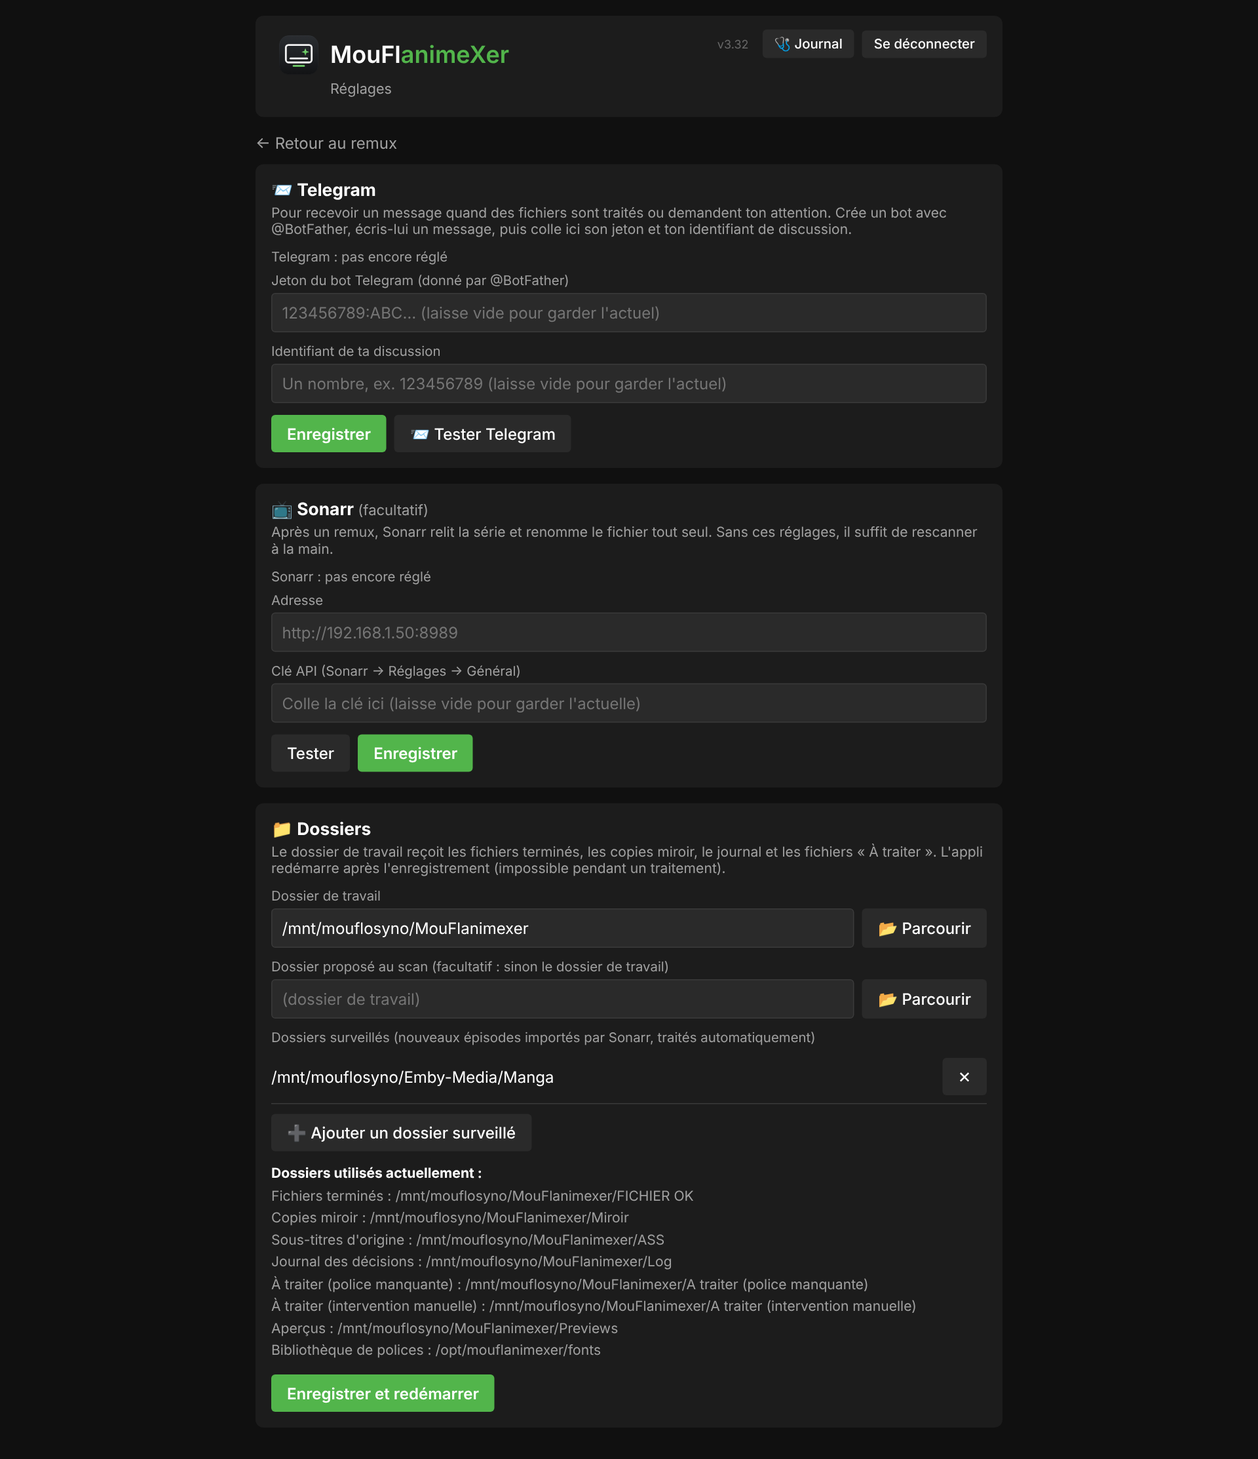
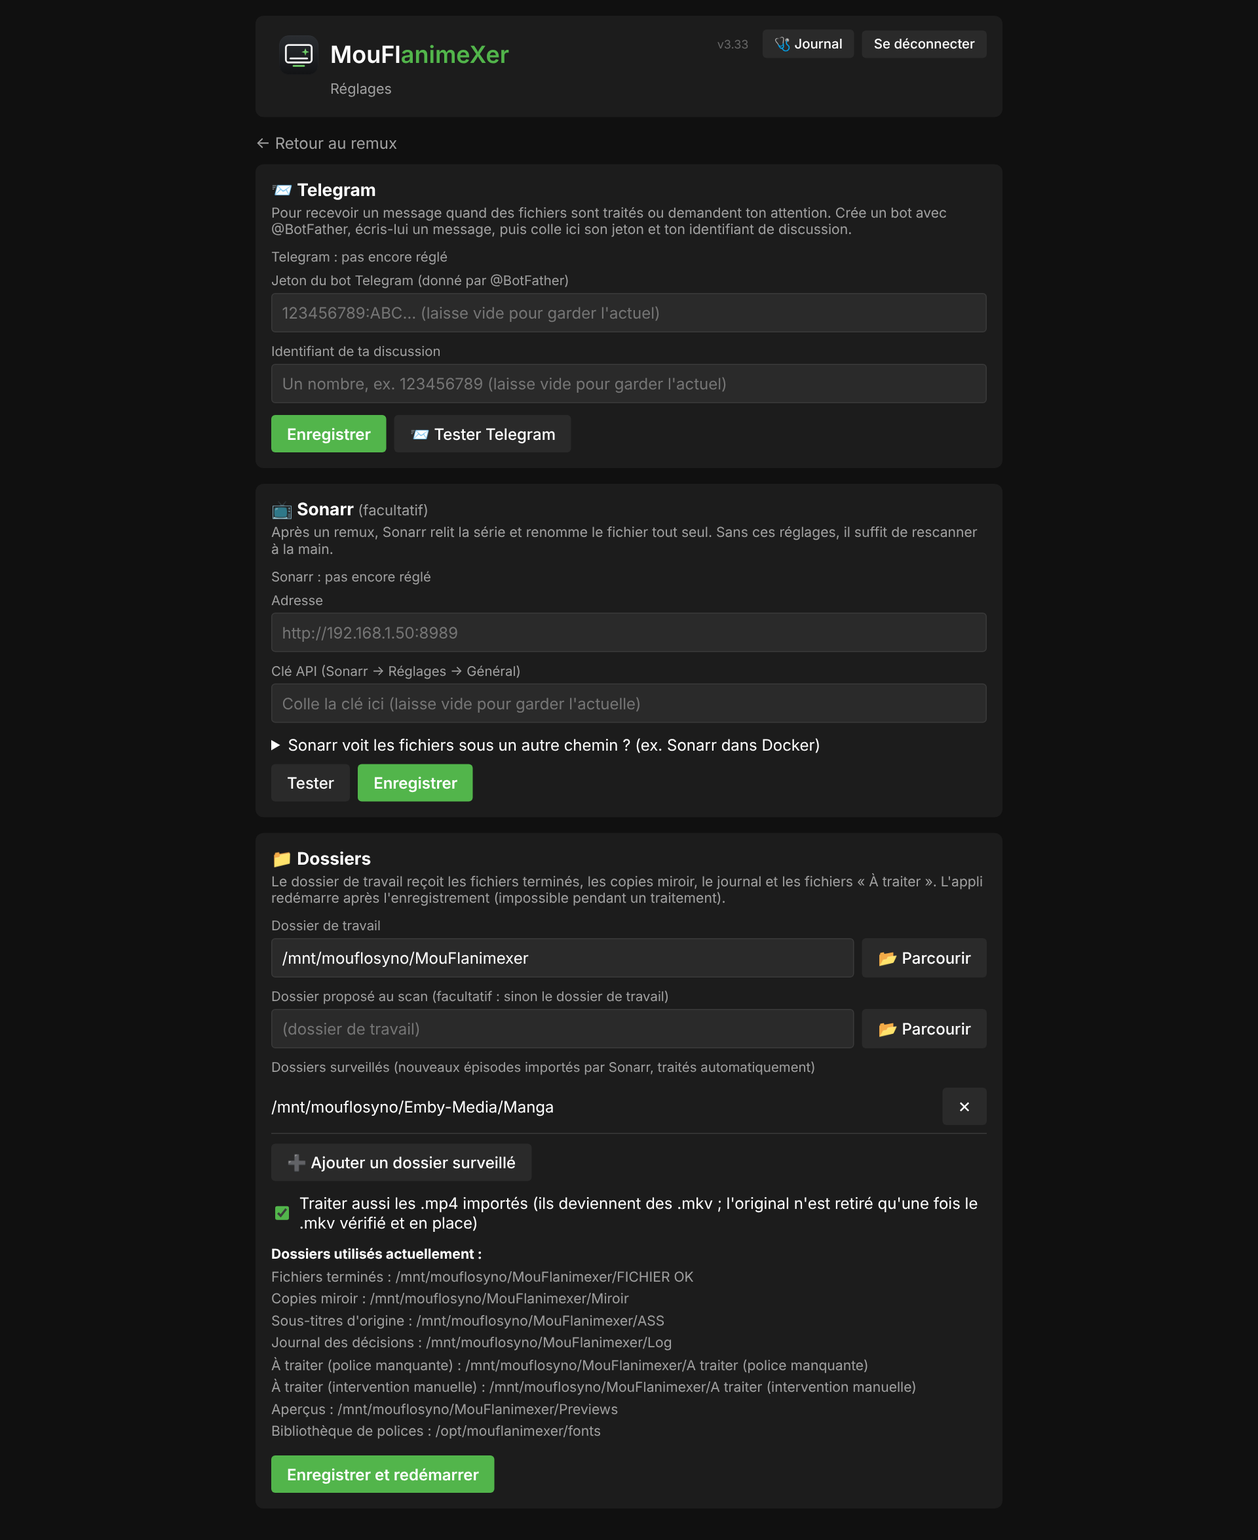
Surveillant Sonarr : MP4, correspondance de chemins, alerte NAS ; FICHIER OK rangé par série (3.33)
- les .mp4 importés par Sonarr sont traités aussi : le .mkv produit est posé à côté, l'original n'est retiré qu'une fois le .mkv en place (réglable dans Réglages → Dossiers)
- Réglages → Sonarr : correspondance de chemins quand Sonarr voit les fichiers autrement (ex. Docker)
- partage réseau non monté : le surveillant attend et envoie au plus une alerte Telegram par heure ; « Lancer » refuse avec un message clair
- FICHIER OK/<série>/<saison> : plus d'écrasement entre séries ; l'ancien rangement à plat reste reconnu
- README et capture de la page Réglages mis à jour

Claude-Session: https://claude.ai/code/session_01P3JwC3gaAT2fx5yrpG9jJV

diff --git a/templates/reglages.html b/templates/reglages.html
@@ -32,6 +32,11 @@
         <div class="state" id="snState"></div>
         <div class="field"><label for="snUrl">Adresse</label><input type="text" id="snUrl" placeholder="http://192.168.1.50:8989" autocapitalize="off" spellcheck="false"></div>
         <div class="field"><label for="snKey">Clé API (Sonarr → Réglages → Général)</label><input type="password" id="snKey" autocomplete="off" autocapitalize="off" spellcheck="false" placeholder="Colle la clé ici (laisse vide pour garder l'actuelle)"></div>
+        <details style="margin-bottom:10px"><summary style="cursor:pointer">Sonarr voit les fichiers sous un autre chemin ? (ex. Sonarr dans Docker)</summary>
+            <div class="sub" style="margin-top:8px">Indique le chemin tel que Sonarr le voit et le même dossier sur ce serveur. Exemple : <b>/tv</b> ↔ <b>/mnt/mouflosyno/Emby-Media/Manga</b>. Laisse vide si les chemins sont identiques.</div>
+            <div id="snMap"></div>
+            <div class="row" style="margin-top:6px"><button class="btn ghost" id="snMapAdd">➕ Ajouter une correspondance</button></div>
+        </details>
         <div class="row"><button class="btn ghost" id="snTest">Tester</button><button class="btn" id="snSave">Enregistrer</button></div>
         <div id="snMsg"></div>
     </div>
@@ -46,6 +51,7 @@
         <div class="field"><label>Dossiers surveillés (nouveaux épisodes importés par Sonarr, traités automatiquement)</label>
             <div id="pWatch"></div>
             <div class="row" style="margin-top:6px"><button class="btn ghost" id="pWatchAdd">➕ Ajouter un dossier surveillé</button></div></div>
+        <label class="check"><input type="checkbox" id="pMp4"> Traiter aussi les .mp4 importés (ils deviennent des .mkv ; l'original n'est retiré qu'une fois le .mkv vérifié et en place)</label>
         <div class="tabsinfo" id="folderInfo"></div>
         <div class="row" style="margin-top:12px"><button class="btn" id="pSave">Enregistrer et redémarrer</button></div>
         <div id="pMsg"></div>
@@ -53,7 +59,18 @@
 </div>
 <script>
 async function loadTg() { const s = await api('/api/settings/telegram'); $('tgState').textContent = s.configured ? `Telegram : réglé (discussion ${s.chat_hint})` : 'Telegram : pas encore réglé'; }
-async function loadSn() { const s = await api('/api/settings/sonarr'); $('snUrl').value = s.base_url || ''; $('snState').textContent = s.configured ? `Sonarr : réglé (clé ${s.hint})` : 'Sonarr : pas encore réglé'; }
+let snMap = [];
+function renderSnMap() {
+    $('snMap').innerHTML = snMap.map((m, i) => `<div class="row nowrap" style="margin-top:6px"><input type="text" data-k="sonarr" data-i="${i}" value="${esc(m.sonarr)}" placeholder="/tv (Sonarr)" autocapitalize="off" spellcheck="false"><input type="text" data-k="local" data-i="${i}" value="${esc(m.local)}" placeholder="/mnt/… (ce serveur)" autocapitalize="off" spellcheck="false"><button class="btn ghost" data-delm="${i}" title="Retirer">✕</button></div>`).join('');
+}
+$('snMap').addEventListener('input', e => { const i = e.target.dataset.i; if (i !== undefined) snMap[i][e.target.dataset.k] = e.target.value; });
+$('snMap').addEventListener('click', e => { const d = e.target.dataset.delm; if (d !== undefined) { snMap.splice(Number(d), 1); renderSnMap(); } });
+$('snMapAdd').addEventListener('click', () => { snMap.push({sonarr: '', local: ''}); renderSnMap(); });
+async function loadSn() {
+    const s = await api('/api/settings/sonarr'); $('snUrl').value = s.base_url || '';
+    $('snState').textContent = s.configured ? `Sonarr : réglé (clé ${s.hint})` : 'Sonarr : pas encore réglé';
+    snMap = (s.path_map || []).map(m => ({sonarr: m.sonarr, local: m.local})); renderSnMap();
+}
 $('tgSave').addEventListener('click', async () => {
     if (!$('tgToken').value.trim() && !$('tgChat').value.trim()) return say('tgMsg', 'Renseigne le jeton et l\'identifiant (ou utilise « Tester » pour essayer les réglages actuels).', 'warn');
     say('tgMsg', 'Vérification de Telegram…', true);
@@ -63,7 +80,7 @@ $('tgSave').addEventListener('click', async () => {
 $('tgTest').addEventListener('click', async () => { say('tgMsg', 'Envoi…', true); const r = await post('/api/settings/telegram', {}); say('tgMsg', r.message || r.error, r.ok); });
 $('snTest').addEventListener('click', async () => { say('snMsg', 'Test…', true); const r = await post('/api/settings/sonarr', {base_url: $('snUrl').value, api_key: $('snKey').value, test: true}); say('snMsg', r.message || r.error, r.ok); });
 $('snSave').addEventListener('click', async () => {
-    say('snMsg', 'Vérification…', true); const r = await post('/api/settings/sonarr', {base_url: $('snUrl').value, api_key: $('snKey').value});
+    say('snMsg', 'Vérification…', true); const r = await post('/api/settings/sonarr', {base_url: $('snUrl').value, api_key: $('snKey').value, path_map: snMap});
     say('snMsg', r.message || r.error, r.ok); if (r.ok) { $('snKey').value = ''; loadSn(); }
 });
 let watch = [];
@@ -74,13 +91,13 @@ $('pWatch').addEventListener('click', e => { const d = e.target.dataset.delw; if
 $('pWatchAdd').addEventListener('click', () => browseFolder(watch[0] || '/mnt', path => { if (!watch.includes(path)) watch.push(path); renderWatch(); }));
 async function loadPaths() {
     const p = await api('/api/settings/paths');
-    $('pWork').value = p.work_root || ''; $('pScan').value = p.scan_default || ''; watch = p.watch_dirs || []; renderWatch();
+    $('pWork').value = p.work_root || ''; $('pScan').value = p.scan_default || ''; watch = p.watch_dirs || []; renderWatch(); $('pMp4').checked = p.watch_mp4 !== false;
     const f = await api('/api/settings/folders');
     $('folderInfo').innerHTML = '<b>Dossiers utilisés actuellement :</b><br>' + f.folders.map(x => `${esc(x.label)} : ${esc(x.path)}${x.ok ? '' : ' <span style="color:var(--muted)">(créé au premier usage)</span>'}`).join('<br>');
 }
 $('pSave').addEventListener('click', async () => {
     if (!confirm('Enregistrer ces dossiers ? L\'appli va redémarrer (quelques secondes).')) return;
-    const r = await post('/api/settings/paths', {work_root: $('pWork').value, scan_default: $('pScan').value, watch_dirs: watch});
+    const r = await post('/api/settings/paths', {work_root: $('pWork').value, scan_default: $('pScan').value, watch_dirs: watch, watch_mp4: $('pMp4').checked});
     if (!r.ok) return say('pMsg', r.error, false);
     say('pMsg', r.message, 'warn');
     for (let i = 0; i < 40; i++) { await new Promise(res => setTimeout(res, 2000)); try { const x = await fetch('/api/settings/paths'); if (x.ok) { await loadPaths(); return say('pMsg', 'Dossiers relus.', true); } } catch (e) {} }

diff --git a/mouflanimexer.py b/mouflanimexer.py
@@ -659,6 +659,7 @@ PENDING_REVIEW_DIR = WORK_ROOT / "A traiter (police manquante)"
 # de deviner, avec notification Telegram.
 SONARR_WATCH_DIRS = [Path(p) for p in (_PATHS["sonarr_watch_dirs"] if "sonarr_watch_dirs" in _PATHS else DEFAULT_WATCH_DIRS)]   # liste vide = surveillance désactivée
 SONARR_REVIEW_DIR = WORK_ROOT / "A traiter (intervention manuelle)"
+WATCH_MP4 = bool(_PATHS.get("watch_mp4", True))      # v3.33 : le surveillant traite aussi les .mp4 (devenus .mkv)
 SONARR_STATE_PATH = Path("/opt/mouflanimexer/sonarr_watch_state.json")
 # Un fichier doit être stable (non modifié) depuis au moins ce délai avant
 # d'être traité, pour ne jamais toucher un import Sonarr encore en cours.
@@ -705,6 +706,26 @@ def load_sonarr_api_config():
     except Exception:
         pass
     return None, None
+
+
+def load_sonarr_path_map():
+    """v3.33 : correspondances de chemins quand Sonarr voit les fichiers autrement (ex. Docker : « /tv » ici
+    « /mnt/mouflosyno/Emby-Media/Manga »). -> [(chemin Sonarr, chemin local)], les plus longs d'abord."""
+    try:
+        data = json.loads(SONARR_API_CONFIG_PATH.read_text(encoding="utf-8"))
+        pairs = [(str(m.get("sonarr", "")).rstrip("/"), str(m.get("local", "")).rstrip("/")) for m in data.get("path_map") or []]
+        return sorted([p for p in pairs if p[0] and p[1]], key=lambda p: -len(p[0]))
+    except Exception:
+        return []
+
+
+def sonarr_to_local(path_str):
+    """Chemin donné par Sonarr -> chemin sur ce serveur (inchangé sans correspondance)."""
+    p = str(path_str or "")
+    for son, loc in load_sonarr_path_map():
+        if p == son or p.startswith(son + "/"):
+            return loc + p[len(son):]
+    return p
 
 
 def _sonarr_api_call(method, path, api_key, base_url, payload=None, timeout=20, _redirects_left=3):
@@ -762,7 +783,7 @@ def _sonarr_find_series_id(file_path: Path, base_url, api_key):
     best_match = None
     best_len = -1
     for series in series_list:
-        series_path = series.get("path")
+        series_path = sonarr_to_local(series.get("path"))
         if not series_path:
             continue
         # Le fichier doit être DANS ce dossier série (avec séparateur, pour
@@ -800,7 +821,7 @@ def _sonarr_find_episode_file_id(series_id, file_path: Path, base_url, api_key):
         return None
     target = os.path.normpath(str(file_path))
     for item in files:
-        item_path = item.get("path")
+        item_path = sonarr_to_local(item.get("path"))
         if item_path and os.path.normpath(item_path) == target:
             return item.get("id")
     return None
@@ -812,7 +833,7 @@ def _sonarr_get_episode_file_path(episode_file_id, base_url, api_key):
     None si introuvable/erreur."""
     try:
         item = _sonarr_api_call("GET", f"/api/v3/episodefile/{episode_file_id}", api_key, base_url)
-        p = item.get("path") if item else None
+        p = sonarr_to_local(item.get("path")) if item else None
         return Path(p) if p else None
     except Exception:
         return None
@@ -1191,6 +1212,12 @@ def extract_series_name(path: Path) -> str:
     if subdir:
         return f"{series_name} / {subdir.upper()}"
     return series_name
+
+
+def ok_dir_for(anime_name):
+    """v3.33 : dossier « FICHIER OK/<série>[/<saison>] », noms nettoyés pour le partage réseau (SMB)."""
+    clean = re.sub(r'[:*?"<>|]+', "-", anime_name or "").replace("::", "-")
+    return series_path(OK_DIR, clean)
 
 
 def series_path(base: Path, anime_name: str) -> Path:
@@ -2786,17 +2813,33 @@ def auto_process_file(path: Path, tmpdir: Path, watch_root):
             produced = AUTO_OUT_DIR / (path.stem + ".mkv")
             if not produced.exists():
                 return "error", "Fichier traité introuvable après remux (chemin inattendu).", None
+            # v3.33 : un .mp4 devient un .mkv à côté ; l'original n'est retiré qu'une fois le .mkv en place
+            target = path.with_suffix(".mkv")
+            if target != path and target.exists():
+                try:
+                    produced.unlink()
+                except OSError:
+                    pass
+                return "error", f"Un fichier « {target.name} » existe déjà à côté : rien n'a été remplacé.", None
             try:
-                os.replace(str(produced), str(path))
+                os.replace(str(produced), str(target))
             except Exception as e:
                 return "error", f"Échec du remplacement en place du fichier original : {e}", None
+            if target != path:
+                try:
+                    if target.stat().st_size > 0:
+                        path.unlink()
+                except OSError as e:
+                    notes.append(f"l'ancien {path.name} n'a pas pu être retiré ({e})")
+            converted = target != path
+            path = target
             # v3.15 : le nom de fichier imposé par Sonarr peut contenir l'ordre
             # des langues audio (ex: [FR+JA]) — désormais périmé après le
             # remux. On demande à Sonarr de rescanner puis renommer lui-même
             # (best-effort, ne fait jamais échouer le "done" ci-dessous).
             # v3.17 : on récupère le chemin final réel pour que l'état du
             # watcher ne pointe jamais vers un chemin qui n'existe plus.
-            final_path = trigger_sonarr_rescan_and_rename(path)
+            final_path = trigger_sonarr_rescan_and_rename(path) or (path if converted else None)
             return "done", "; ".join(notes) if notes else "traité sans intervention", final_path
         # "info" / "warn" : déjà journalisés par log_decision côté pipeline
         # standard, ignorés ici puisqu'il n'y a pas d'interface à mettre à jour.
@@ -2813,9 +2856,10 @@ def _iter_mkv_files(root):
     → crash complet du process watcher, plus aucune notification Telegram
     envoyée, jusqu'au prochain déclenchement cron). os.walk(onerror=...)
     avale l'erreur et continue avec les dossiers suivants."""
+    exts = (".mkv", ".mp4") if WATCH_MP4 else (".mkv",)      # v3.33 : les .mp4 importés par Sonarr aussi (réglable)
     for dirpath, dirnames, filenames in os.walk(root, onerror=lambda e: None):
         for name in filenames:
-            if name.lower().endswith(".mkv"):
+            if name.lower().endswith(exts):
                 yield Path(dirpath) / name
 
 
@@ -2990,9 +3034,27 @@ def run_sonarr_watch_once():
         return          # le passage précédent travaille encore : on le laisse finir
     except OSError:
         lock_file = None
+    if not SONARR_WATCH_DIRS:
+        return          # surveillance désactivée dans les Réglages
     missing = [d for d in SONARR_WATCH_DIRS if not d.exists()]
-    if not SONARR_WATCH_DIRS or len(missing) == len(SONARR_WATCH_DIRS):
-        return          # partage réseau non monté : rien à faire (et surtout rien à créer en local)
+    problem = None
+    if len(missing) == len(SONARR_WATCH_DIRS):
+        problem = "dossier surveillé introuvable : " + ", ".join(str(d) for d in missing)
+    elif not (WORK_ROOT.is_dir() and os.access(WORK_ROOT, os.W_OK)):
+        problem = f"dossier de travail inaccessible : {WORK_ROOT}"
+    if problem:         # v3.33 : partage réseau non monté → rien à faire, une alerte Telegram par heure au plus
+        alert_file = SONARR_STATE_PATH.with_name("sonarr_watch_nas_alert")
+        try:
+            last = alert_file.stat().st_mtime
+        except OSError:
+            last = 0
+        if time.time() - last > 3600:
+            send_telegram_notification(f"⚠ MouFlanimeXer : partage réseau inaccessible ({problem}). Le traitement automatique attend son retour.")
+            try:
+                alert_file.write_text(problem, encoding="utf-8")
+            except OSError:
+                pass
+        return
     state = _load_sonarr_state()
     failures = _load_failures()
     now = time.time()
@@ -3171,7 +3233,7 @@ def _process_file_gen(path: Path, tmpdir: Path, mirror_root=None, scan_root=None
         # dupliquée (ex: .../Boruto/S1/Boruto/S1/...)
         output_dir = mirror_root / rel.parent
     elif output_dir is None:
-        output_dir = OK_DIR
+        output_dir = ok_dir_for(anime_name)        # v3.33 : un sous-dossier par série (plus d'écrasement entre séries)
     output_dir = Path(output_dir)
     output_dir.mkdir(parents=True, exist_ok=True)
     out_file = output_dir / (path.stem + ".mkv")
@@ -3935,7 +3997,8 @@ def _already_handled(f: Path, anime_name=None, mirror_root=None, scan_root=None)
         except ValueError:
             rel = Path(f.name)
         return (mirror_root / rel.parent / (f.stem + ".mkv")).exists()
-    return (OK_DIR / (f.stem + ".mkv")).exists()
+    name = f.stem + ".mkv"
+    return (ok_dir_for(anime_name or extract_series_name(f)) / name).exists() or (OK_DIR / name).exists()   # ancien rangement (à plat) reconnu aussi
 
 @app.route("/", methods=["GET"])
 @requires_auth
@@ -4344,6 +4407,9 @@ def start():
     save_extra_sub_lang(extra_sub_lang)
 
     STATE["queue"] = [f for f in STATE["files"] if extract_series_name(f) not in excluded]
+    if not (WORK_ROOT.is_dir() and os.access(WORK_ROOT, os.W_OK)):      # v3.33 : NAS non monté ou en lecture seule
+        STATE["log"].append({"text": f"⚠ Dossier de travail inaccessible ({WORK_ROOT}) : le partage réseau est-il monté ? Rien n'a été lancé.", "alert": True})
+        return redirect(url_for("index"))
 
     STATE["idx"] = 0
     STATE["log"] = _LoggedList([])

diff --git a/settings_page.py b/settings_page.py
@@ -98,12 +98,23 @@ def init_app(app, version_fn, telegram_path, sonarr_path, folders_fn, paths_file
     def sonarr_state():
         c = _read(sonarr_path)
         key = c.get("api_key", "")
-        return jsonify({"configured": bool(c.get("base_url") and key), "base_url": c.get("base_url", ""), "hint": "…" + key[-4:] if key else ""})
+        return jsonify({"configured": bool(c.get("base_url") and key), "base_url": c.get("base_url", ""), "hint": "…" + key[-4:] if key else "",
+                        "path_map": c.get("path_map") or []})
 
     @app.route("/api/settings/sonarr", methods=["POST"])
     def sonarr_save():
         body = request.get_json(silent=True) or {}
         cur = _read(sonarr_path)
+        path_map = cur.get("path_map") or []
+        if "path_map" in body:                      # correspondances de chemins Sonarr <-> ce serveur
+            path_map = []
+            for m in body.get("path_map") or []:
+                son, loc = str((m or {}).get("sonarr", "")).strip().rstrip("/"), str((m or {}).get("local", "")).strip().rstrip("/")
+                if not son and not loc:
+                    continue
+                if not son.startswith("/") or not loc.startswith("/"):
+                    return jsonify({"ok": False, "error": f"Correspondance invalide : « {son} » ↔ « {loc} » (deux chemins complets commençant par /)."}), 400
+                path_map.append({"sonarr": son, "local": loc})
         url = str(body.get("base_url", "")).strip().rstrip("/") or cur.get("base_url", "")
         key = str(body.get("api_key", "")).strip() or cur.get("api_key", "")
         if not _URL_RE.match(url):
@@ -119,7 +130,7 @@ def init_app(app, version_fn, telegram_path, sonarr_path, folders_fn, paths_file
             return jsonify({"ok": False, "error": f"Sonarr a répondu une erreur ({code})"}), 400
         if body.get("test"):
             return jsonify({"ok": True, "message": "Sonarr répond et accepte la clé."})
-        _write(sonarr_path, {"base_url": url, "api_key": key})
+        _write(sonarr_path, {"base_url": url, "api_key": key, "path_map": path_map})
         logger.info("Réglages Sonarr enregistrés depuis la page web")
         return jsonify({"ok": True, "message": "Enregistré : Sonarr répond et accepte la clé."})
 
@@ -133,6 +144,7 @@ def init_app(app, version_fn, telegram_path, sonarr_path, folders_fn, paths_file
         return jsonify({"work_root": cur.get("work_root") or defaults.get("work_root", ""),
                         "scan_default": cur.get("scan_default") or "",
                         "watch_dirs": cur["sonarr_watch_dirs"] if "sonarr_watch_dirs" in cur else defaults.get("sonarr_watch_dirs", []),
+                        "watch_mp4": bool(cur.get("watch_mp4", True)),
                         "busy": bool(busy_fn and busy_fn())})
 
     @app.route("/api/settings/paths", methods=["POST"])
@@ -152,7 +164,7 @@ def init_app(app, version_fn, telegram_path, sonarr_path, folders_fn, paths_file
                 return jsonify({"ok": False, "error": f"Dossier introuvable sur le serveur ({label}) : « {value} ». Rien n'a été enregistré."}), 400
         if not os.access(work, os.W_OK):
             return jsonify({"ok": False, "error": f"Impossible d'écrire dans « {work} » (droits ? partage en lecture seule ?). Rien n'a été enregistré."}), 400
-        _write(paths_file, {"work_root": work, "scan_default": scan, "sonarr_watch_dirs": watch})
+        _write(paths_file, {"work_root": work, "scan_default": scan, "sonarr_watch_dirs": watch, "watch_mp4": bool(body.get("watch_mp4", True))})
         logger.info("Dossiers mis à jour depuis la page web : travail %s · scan %s · surveillés %s", work, scan or "(travail)", ", ".join(watch) or "(aucun)")
         threading.Thread(target=lambda: (time.sleep(1.5), os._exit(0)), daemon=True).start()   # systemd relance l'appli
         return jsonify({"ok": True, "message": "Enregistré. L'appli redémarre pour relire les dossiers… (le surveillant Sonarr les prend au prochain passage)"})

diff --git a/README.md b/README.md
@@ -63,6 +63,10 @@ Redimensionne les sous-titres ASS, gère les pistes audio/sous-titres multiples 
 
 ### Intégrations & Automatisation
 - 📡 **Sonarr → Traitement → Emby** : watcher cron détecte nouveaux fichiers, traite en place, intègre à la biblio
+- 🎞 **MP4 aussi** : le traitement automatique prend aussi les .mp4 importés par Sonarr (ils deviennent des .mkv ; l'original n'est retiré qu'une fois le .mkv vérifié et en place) — réglable
+- 🔀 **Sonarr dans Docker** : correspondance de chemins réglable (ex. `/tv` ↔ `/mnt/mouflosyno/Emby-Media/Manga`)
+- 🛡 **Sécurités** : fichier produit vérifié avant de remplacer l'original, un seul passage du surveillant à la fois, essais espacés en cas d'échec, alerte Telegram si le partage réseau n'est pas monté
+- 🗂 **FICHIER OK rangé par série** : deux épisodes de séries différentes au même nom ne s'écrasent plus
 - 📱 **Notifications Telegram** : alertes fichiers zappés, bugs inattendus (à régler depuis la page ⚙ Réglages)
 - ⚙ **Page Réglages** : Telegram, Sonarr et liste des dossiers, même page que dans MouFloster et MouFlopening
 - 🔄 **Auto-déploiement GitHub** : git pull auto toutes les minutes, redémarrage du service si changements
